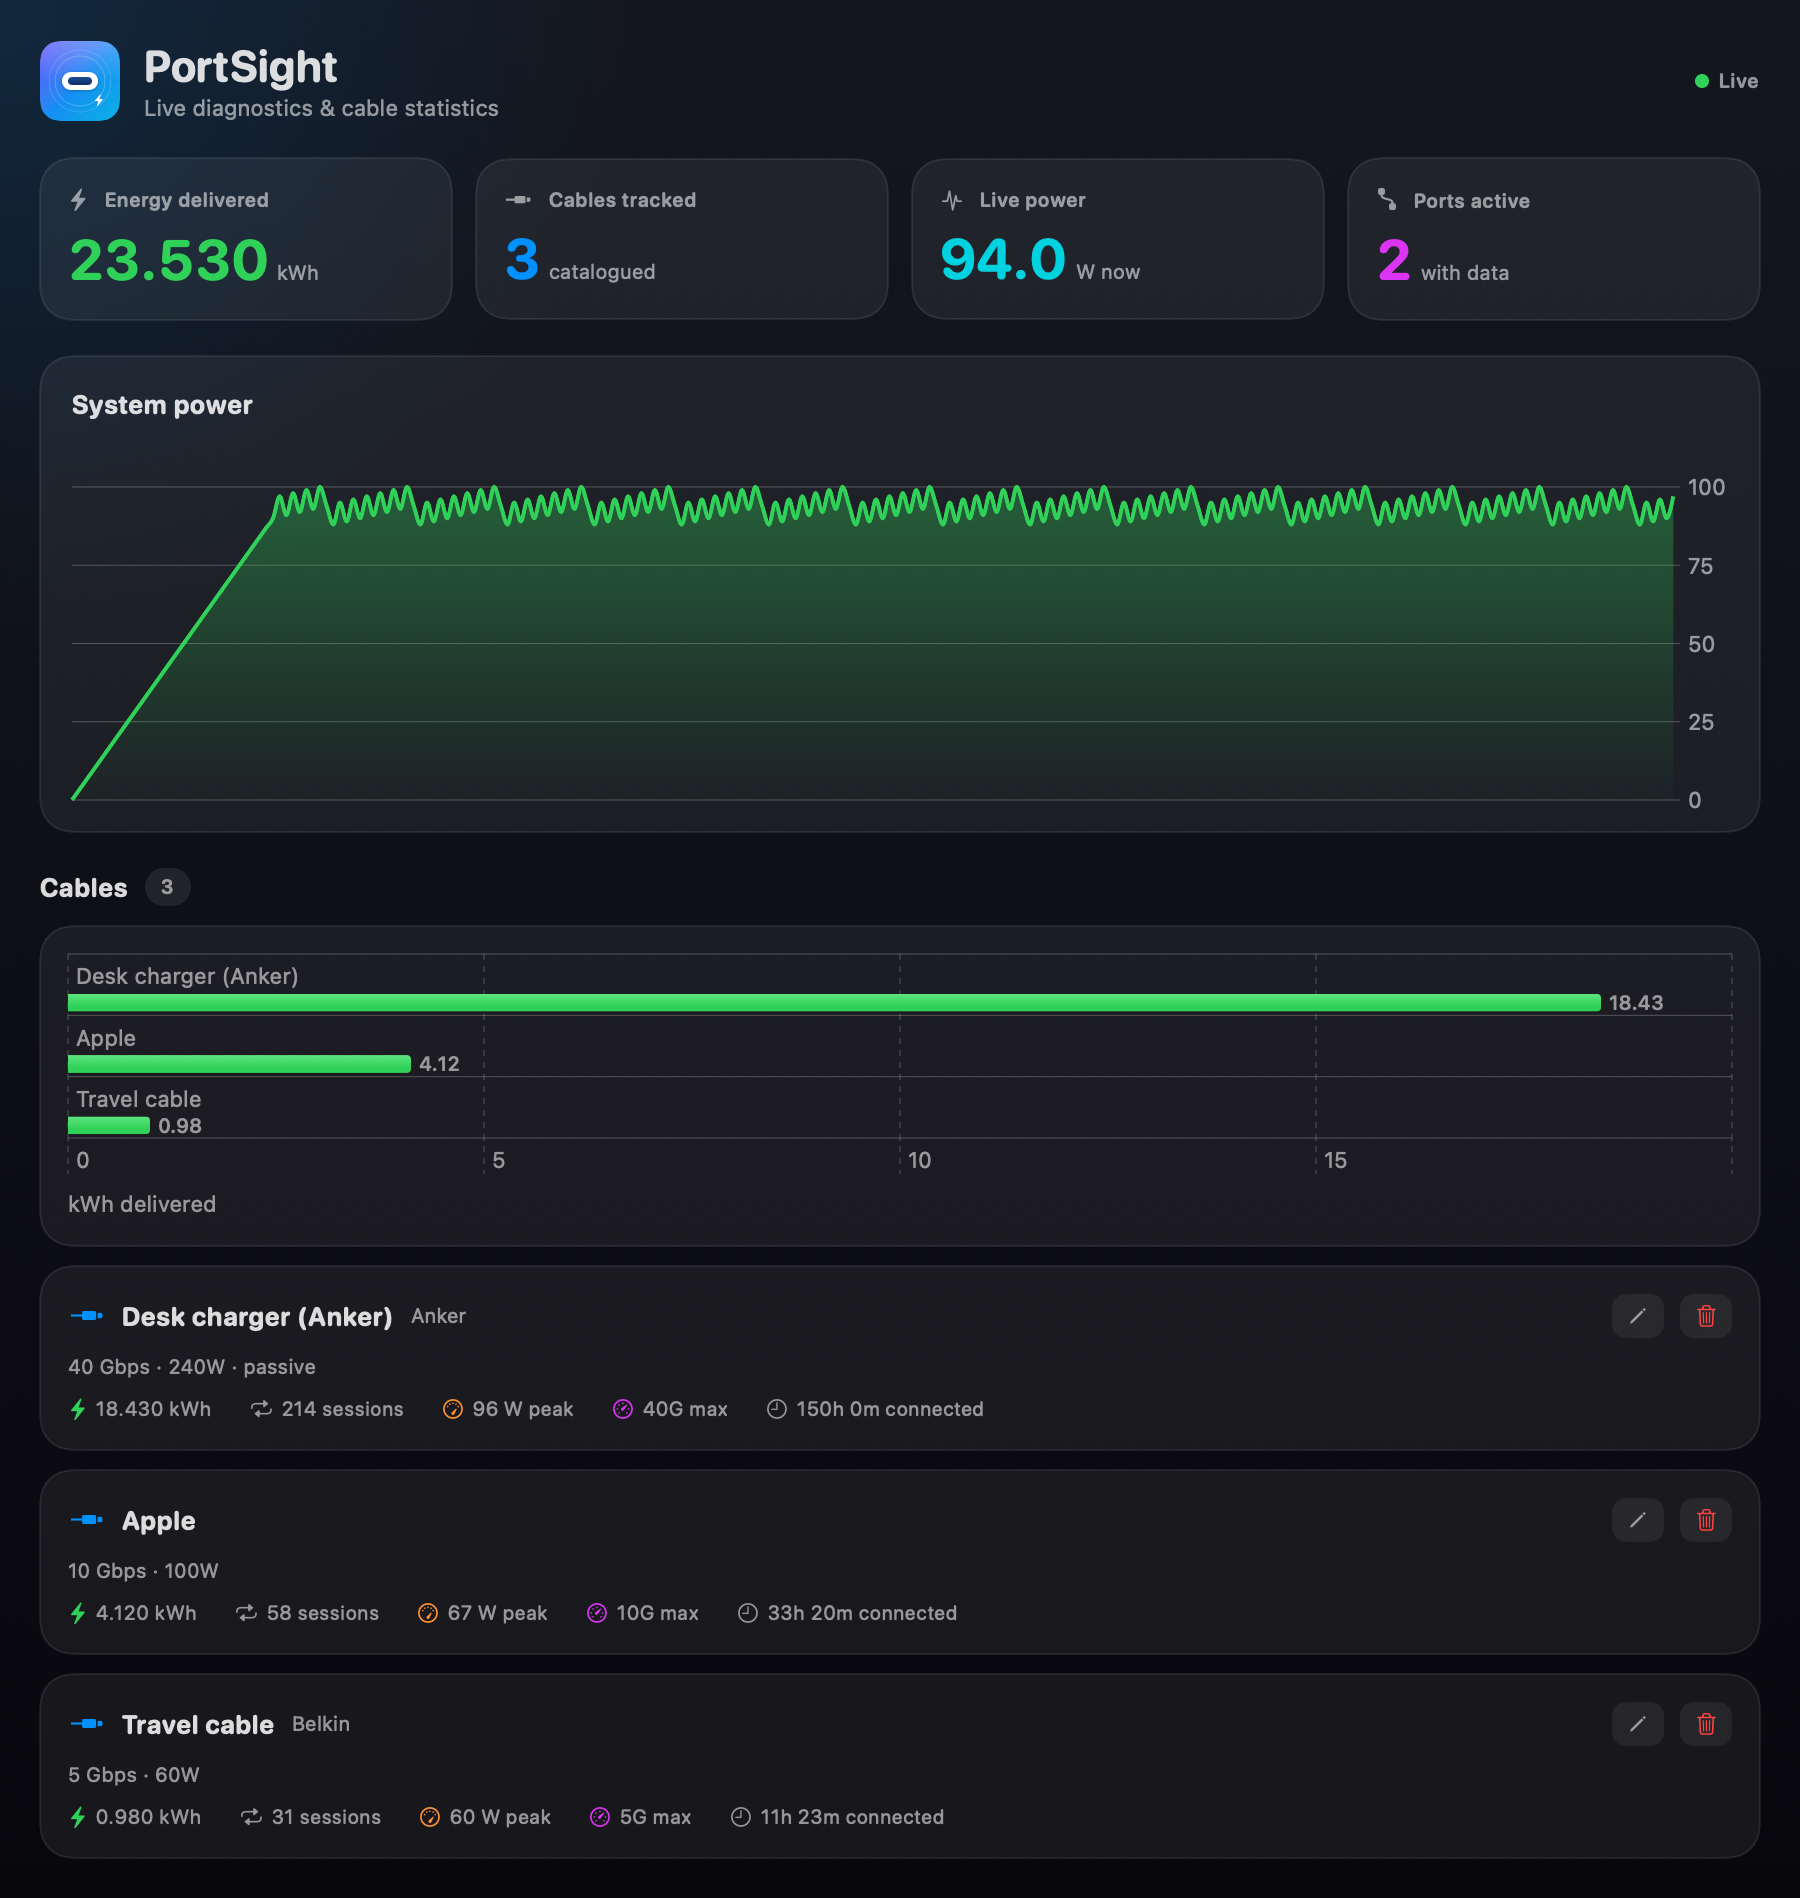
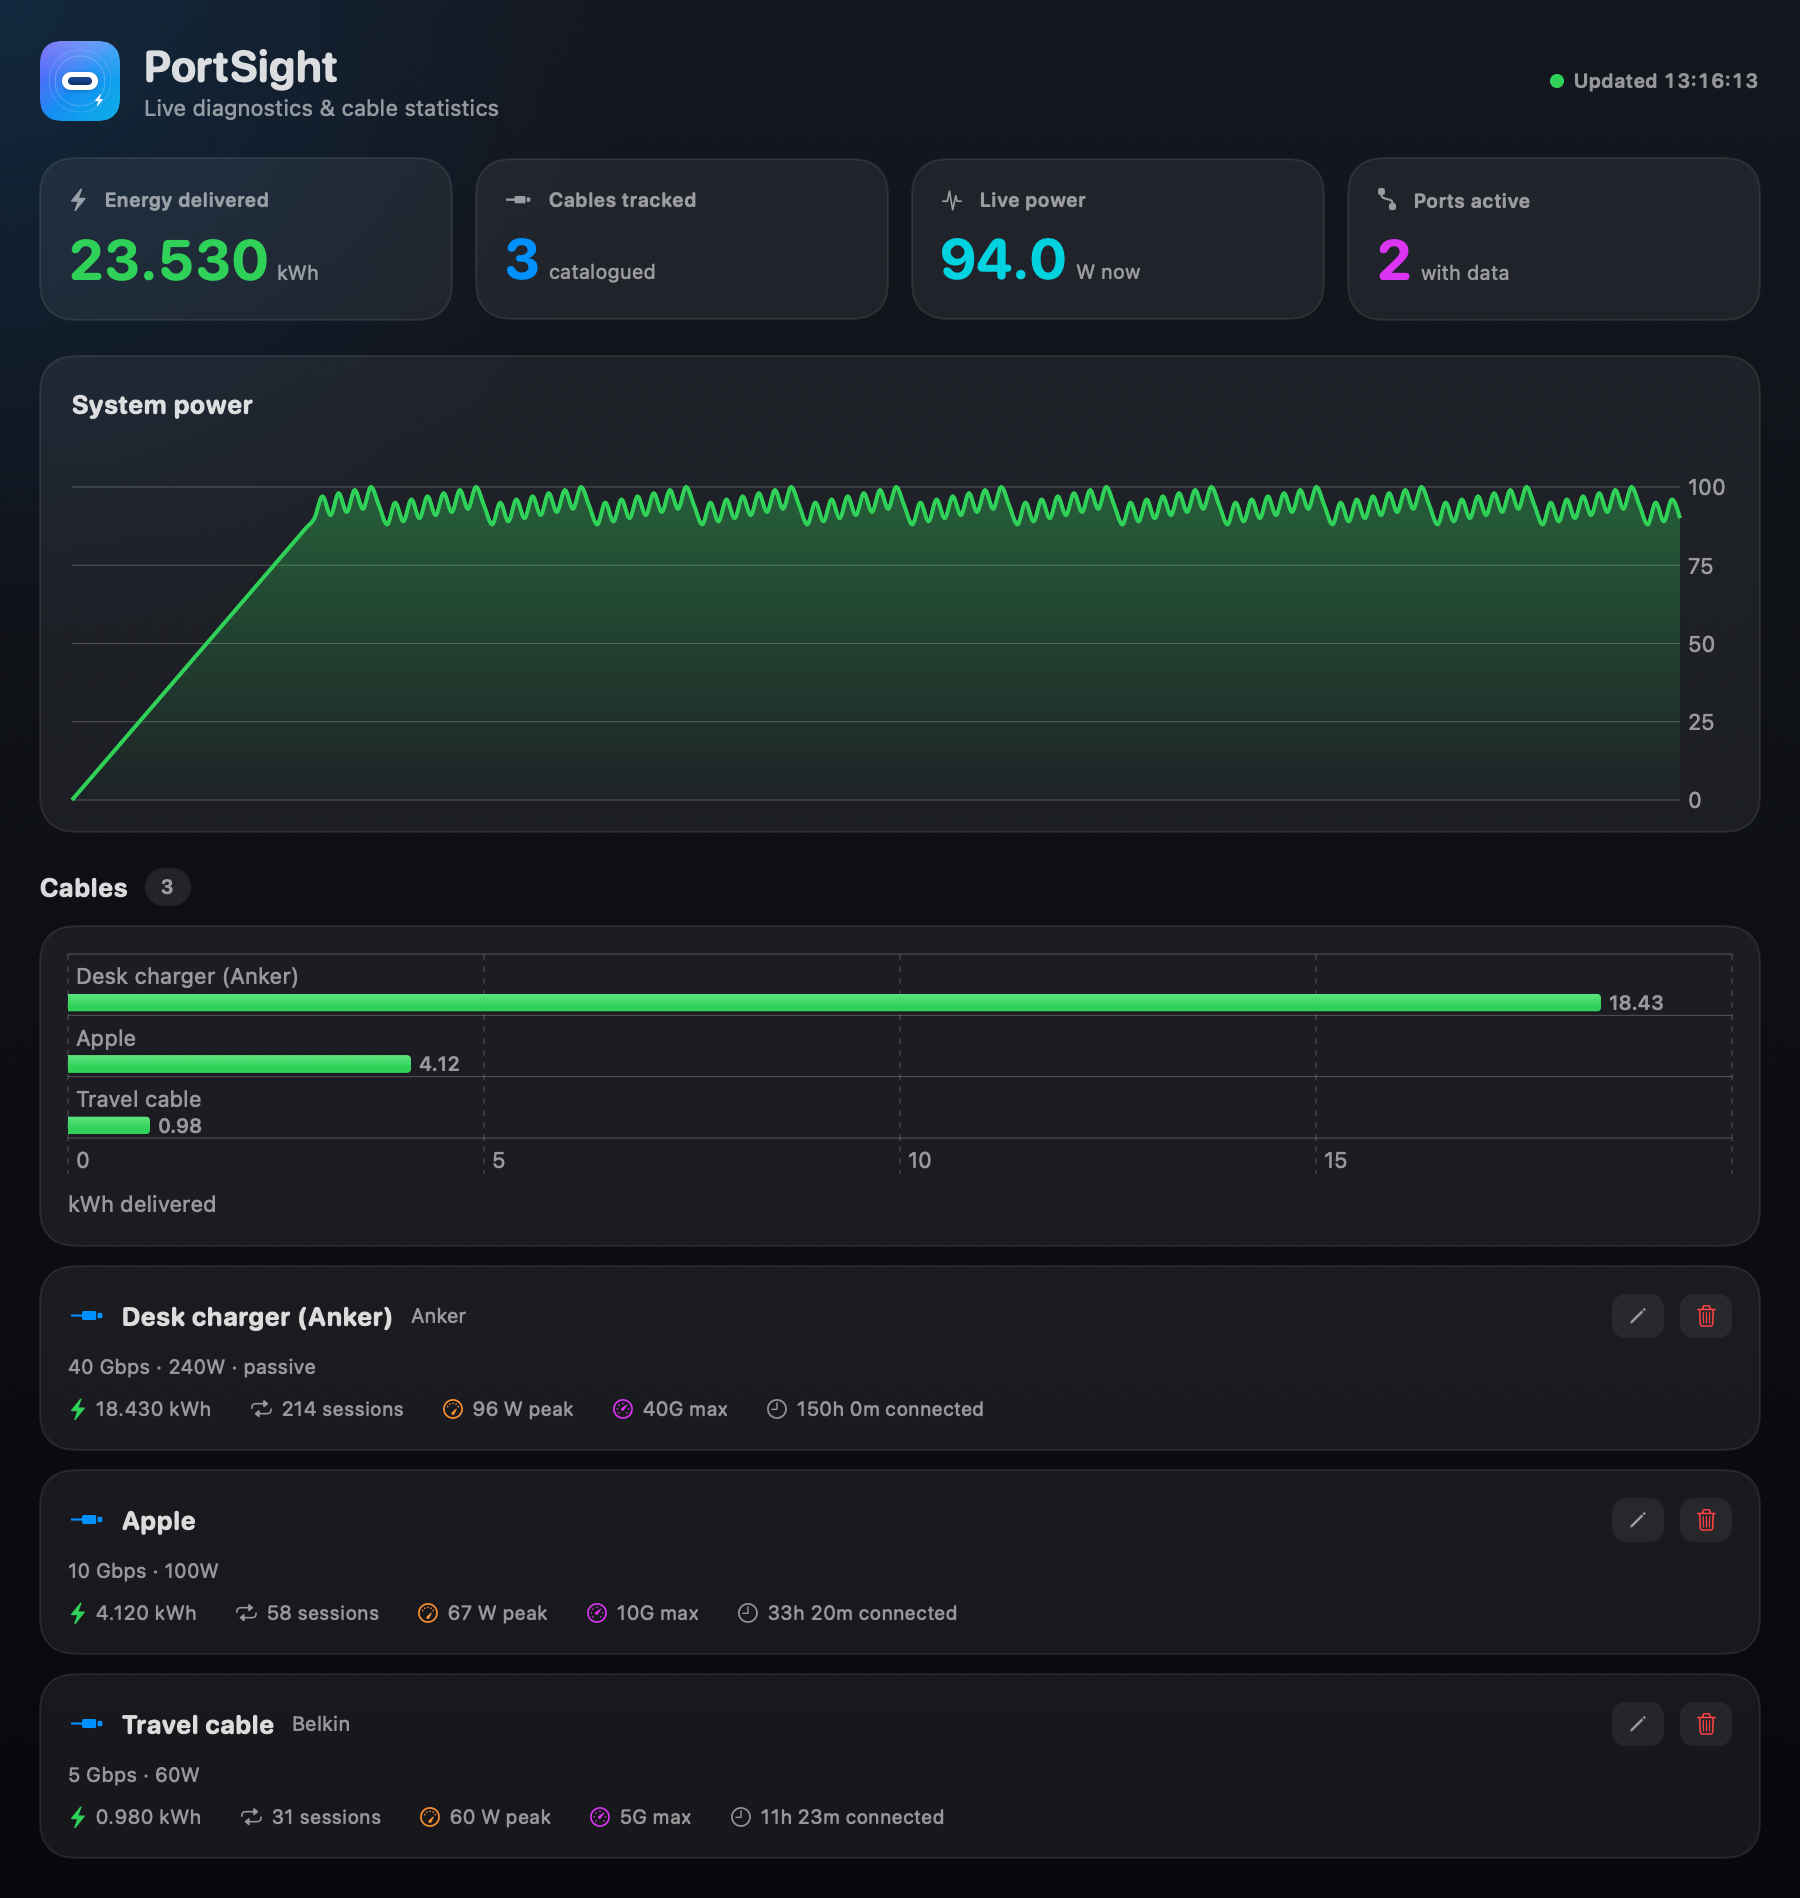
Chart fills full width and compresses to show whole session; replace 'Live' with last-update time

Changed region(s): [[0.0622, 0.2487, 0.9333, 0.4041], [0.8711, 0.0311, 0.9644, 0.0622]]

diff --git a/Sources/CableProUI/ContentView.swift b/Sources/CableProUI/ContentView.swift
@@ -72,7 +72,7 @@ public struct ContentView: View {
                     .font(.caption).foregroundStyle(.secondary)
             }
             Spacer()
-            LiveDot(active: model.lastUpdate != nil)
+            LiveDot(date: model.lastUpdate)
         }
     }
 
@@ -165,23 +165,29 @@ public struct ContentView: View {
     }
 }
 
-// Subtle pulsing "live" indicator.
+// Freshness indicator: a pulsing dot plus the time of the last update, so it
+// actually tells you the data is current (and when it last refreshed).
 struct LiveDot: View {
-    let active: Bool
+    let date: Date?
     @State private var pulse = false
+
+    private static let formatter: DateFormatter = {
+        let f = DateFormatter(); f.dateFormat = "HH:mm:ss"; return f
+    }()
 
     var body: some View {
         HStack(spacing: 5) {
             Circle()
-                .fill(active ? Color.green : Color.secondary)
+                .fill(date != nil ? Color.green : Color.secondary)
                 .frame(width: 7, height: 7)
                 .scaleEffect(pulse ? 1.0 : 0.7)
                 .opacity(pulse ? 1.0 : 0.5)
                 .animation(.easeInOut(duration: 1).repeatForever(autoreverses: true), value: pulse)
-            Text(active ? "Live" : "…")
+            Text(date.map { "Updated \(Self.formatter.string(from: $0))" } ?? "Starting…")
                 .font(.system(.caption2, design: .rounded).weight(.semibold))
                 .foregroundStyle(.secondary)
+                .monospacedDigit()
         }
-        .onAppear { if active { pulse = true } }
+        .onAppear { pulse = true }
     }
 }

diff --git a/Sources/CableProUI/SnapshotModel.swift b/Sources/CableProUI/SnapshotModel.swift
@@ -244,9 +244,11 @@ struct PortEventVM: Identifiable, Equatable {
     let severity: SpeedVM.Severity
 }
 
-/// Number of power samples retained/plotted. At 1 Hz this is the width of the
-/// live chart's time window; the chart fills left→right until it's reached.
-let powerSampleCap = 240   // ~4 minutes
+/// Max power samples retained (1 Hz). The chart's X axis always spans exactly
+/// the samples collected, so the line fills the full width from the start and
+/// compresses as more data accumulates — the whole session stays in view.
+/// Capped at ~1 h to bound memory/rendering (rolls after that).
+let powerSampleCap = 3600
 
 // Cable resistance estimate (our own, system-level). WhatCable's per-port
 // regression needs per-port telemetry that laptops don't expose, so instead we
@@ -675,8 +677,8 @@ public final class SnapshotModel: ObservableObject {
                    speed: nil,
                    health: noHealth, pdOptions: [], pdWinning: nil),
         ]
-        // Rising-then-steady power curve filling the whole window.
-        m.samples = (0..<powerSampleCap).map { i in
+        // Rising-then-steady power curve for a sample session.
+        m.samples = (0..<200).map { i in
             let w = i < 30 ? Double(i) * 3.0 : 88 + Double((i * 7) % 13)
             return PowerPoint(id: i, watts: w)
         }

diff --git a/Sources/CableProUI/DashboardView.swift b/Sources/CableProUI/DashboardView.swift
@@ -49,7 +49,7 @@ public struct DashboardView: View {
                     .font(.subheadline).foregroundStyle(.secondary)
             }
             Spacer()
-            LiveDot(active: model.lastUpdate != nil)
+            LiveDot(date: model.lastUpdate)
         }
     }
 
@@ -99,7 +99,7 @@ public struct DashboardView: View {
                     .interpolationMethod(.monotone)
                     .foregroundStyle(.green).lineStyle(.init(lineWidth: 2))
             }
-            .chartXScale(domain: 0...Double(powerSampleCap))
+            .chartXScale(domain: 0...Double(max(model.samples.count - 1, 1)))
             .chartYScale(domain: 0...(peak * 1.15))
             .chartXAxis(.hidden)
             .frame(height: 180)

diff --git a/Sources/CableProUI/PowerMonitorWindowView.swift b/Sources/CableProUI/PowerMonitorWindowView.swift
@@ -78,7 +78,7 @@ public struct PowerMonitorWindowView: View {
                 .interpolationMethod(.monotone)
                 .foregroundStyle(accent).lineStyle(.init(lineWidth: 2.5))
         }
-        .chartXScale(domain: 0...Double(powerSampleCap))
+        .chartXScale(domain: 0...Double(max(model.samples.count - 1, 1)))
         .chartYScale(domain: 0...(peak * 1.15))
         .chartXAxis(.hidden)
         .frame(minHeight: 220)

diff --git a/Sources/CableProUI/PowerCard.swift b/Sources/CableProUI/PowerCard.swift
@@ -152,7 +152,7 @@ struct PowerCard: View {
                 .foregroundStyle(accent)
                 .lineStyle(.init(lineWidth: 2))
         }
-        .chartXScale(domain: 0...Double(powerSampleCap))
+        .chartXScale(domain: 0...Double(max(samples.count - 1, 1)))
         .chartYScale(domain: 0...(peak * 1.15))
         .chartXAxis(.hidden)
         .chartYAxis(.hidden)
